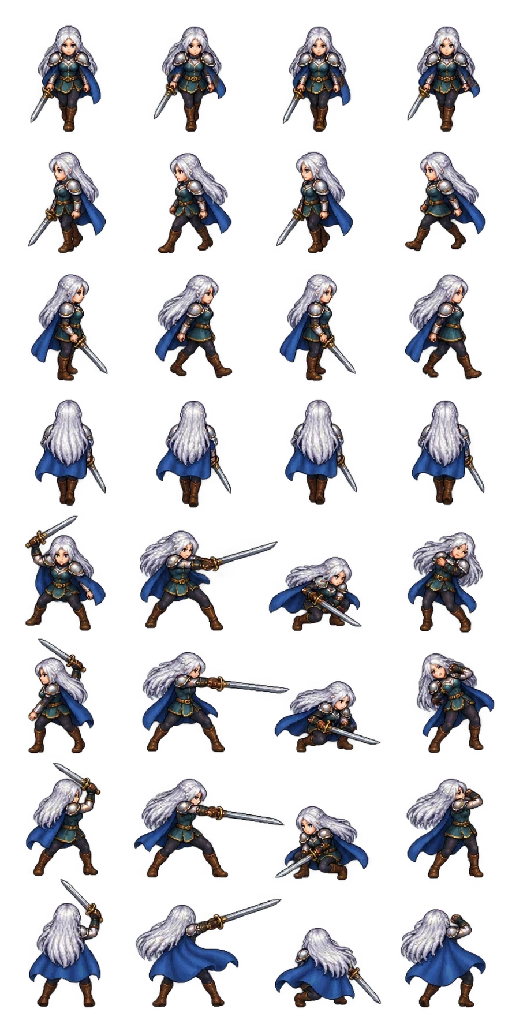
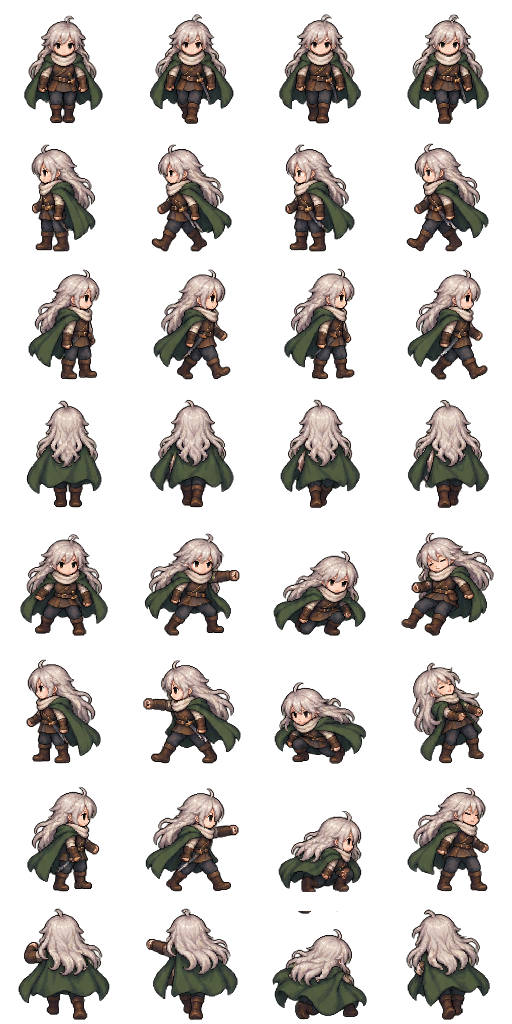
Redesign female hero as an unarmed silver-haired traveler; rename both traveler choices

diff --git a/docs/game.js b/docs/game.js
@@ -578,7 +578,7 @@ drawTown=function(){ascentDrawTown();if(state.counts.sewerRescue){sprite('silver
 // CAMPAIGN START
 // Separate long-form adventure and legacy debug saves. Rules cannot change mid-run.
 const SAVE_SLOTS={debug:'ember-below-v1',adventure:'ember-below-adventure-v1'},LAST_SLOT='ember-below-active-slot';
-const MODE_NAMES={debug:'デバッグ',adventure:'冒険'},HERO_NAMES={traveler:'茶髪の旅人',heroine:'白髪ロングの女勇者'};
+const MODE_NAMES={debug:'デバッグ',adventure:'冒険'},HERO_NAMES={traveler:'旅人(男)',heroine:'旅人(女)'};
 let newGameDraft={mode:'adventure',hero:'traveler'},lastModeAutoSave=0;
 const campaignFresh=fresh;
 fresh=function(){return {...campaignFresh(),gameMode:'debug',hero:'traveler',playSeconds:0,journeyClaimed:[]};};
@@ -611,7 +611,7 @@ function formatPlayTime(seconds){const m=Math.floor((seconds||0)/60);return Math
 const campaignEnemy=enemy;
 enemy=function(type,x,y){const count=enemies.length;campaignEnemy(type,x,y);if(enemies.length<=count)return;const e=enemies.at(-1),factor=enemyFactor();e.hp=Math.round(e.hp*factor);e.maxHp=Math.round(e.maxHp*factor);e.atk=Math.round(e.atk*factor);};
 const campaignSprite=sprite;
-sprite=function(sheet,index,cols,rows,x,y,w,h,alpha=1){if(state?.hero==='heroine'&&['hero','combat'].includes(sheet)){let i=index+(sheet==='combat'?16:0);if(sheet==='combat'&&index===5){ctx.save();ctx.translate(x*2,0);ctx.scale(-1,1);campaignSprite('heroine',25,4,8,x,y,w,h,alpha);ctx.restore();return;}return campaignSprite('heroine',i,4,8,x,y,w,h,alpha);}return campaignSprite(sheet,index,cols,rows,x,y,w,h,alpha);};
+sprite=function(sheet,index,cols,rows,x,y,w,h,alpha=1){if(state?.hero==='heroine'&&['hero','combat'].includes(sheet)){const i=index+(sheet==='combat'?16:0);return campaignSprite('heroine',i,4,8,x,y,w,h,alpha);}return campaignSprite(sheet,index,cols,rows,x,y,w,h,alpha);};
 const JOURNEY_GOALS=[
  {id:'kills5',name:'最初の一歩',count:5,potions:2,tickets:0},{id:'kills20',name:'街の外に慣れる',count:20,potions:3,tickets:3},{id:'kills50',name:'武器を探す旅',count:50,potions:4,tickets:5},{id:'kills100',name:'百戦の旅人',count:100,potions:4,tickets:8},{id:'kills200',name:'迷宮の常連',count:200,potions:5,tickets:10},{id:'kills400',name:'熟練の探索者',count:400,potions:8,tickets:15}
 ];
@@ -620,7 +620,7 @@ function journeyHTML(){return '<p class="lead">'+MODE_NAMES[state.gameMode]+' ·
 const campaignUpdate=update;
 update=function(dt){state.playSeconds=(state.playSeconds||0)+dt;campaignUpdate(dt);if(clock-lastModeAutoSave>=30){save();lastModeAutoSave=clock;}};
 const campaignHud=hud;
-hud=function(){campaignHud();if($('heroName'))$('heroName').textContent=state.hero==='heroine'?'白銀の勇者':'旅人';if($('modeBadge'))$('modeBadge').textContent=MODE_NAMES[state.gameMode]+' MODE';};
+hud=function(){campaignHud();if($('heroName'))$('heroName').textContent=HERO_NAMES[state.hero]||HERO_NAMES.traveler;if($('modeBadge'))$('modeBadge').textContent=MODE_NAMES[state.gameMode]+' MODE';};
 const campaignRender=renderModal;
 renderModal=function(){campaignRender();if(modal==='newGame'){$('modalEyebrow').textContent='A NEW JOURNEY';$('modalTitle').textContent='はじめから';$('modalBody').innerHTML=newGameHTML();}if(modal==='journey'){$('modalEyebrow').textContent='ADVENTURE RECORD';$('modalTitle').textContent='冒険手帳';$('modalBody').innerHTML=journeyHTML();}
  if(modal==='journal'){$('modalBody').innerHTML=$('modalBody').innerHTML.replace('冒険（標準）','被ダメージ補正あり').replaceAll('冒険：被ダメージ','補正あり：被ダメージ');$('modalBody').innerHTML='<div class="notice">'+MODE_NAMES[state.gameMode]+'モード / '+HERO_NAMES[state.hero]+' / '+formatPlayTime(state.playSeconds)+'<br>次のレベルまで '+(needXP()-state.xp)+' EXP</div>'+$('modalBody').innerHTML+'<hr>'+btn('冒険手帳','open:journey',!!floor);}
@@ -674,7 +674,7 @@ ACCESSORIES.push(
  {id:'springCharm',name:'若葉の護符',tier:0,hp:12,traits:['leech']}
 );
 ENEMY_NAMES.push('銀灯スライム');
-function defaultHeroName(hero=state?.hero){return hero==='heroine'?'白銀の勇者':'旅人';}
+function defaultHeroName(hero=state?.hero){return HERO_NAMES[hero]||HERO_NAMES.traveler;}
 function cleanHeroName(value){return Array.from(String(value||'').normalize('NFC').replace(/[\u0000-\u001f\u007f-\u009f\u202a-\u202e\u2066-\u2069]/g,'').trim()).slice(0,16).join('');}
 function heroDisplay(s=state){return cleanHeroName(s?.heroName)||defaultHeroName(s?.hero);}
 const discoveryFresh=fresh;
@@ -841,7 +841,7 @@ let stickId=null;const stick=$('joystick');function stickMove(e){if(e.pointerId!
 stick.onpointerdown=e=>{e.preventDefault();stickId=e.pointerId;stick.setPointerCapture(e.pointerId);stickMove(e)};stick.onpointermove=stickMove;function release(){stickId=null;joystick.x=joystick.y=0;stick.firstElementChild.style.transform='';}stick.onpointerup=release;stick.onpointercancel=release;stick.onlostpointercapture=release;
 function start(continued){if(!loaded)return;if(continued)state=readSave()||fresh();else if(readSave()){state=readSave();}else state=fresh();enterTown(true);running=true;$('titleScreen').hidden=true;save();announce('灯守りの街');toast('街の施設から準備し、迷宮か狩場へ。操作は右上の「遊び方」で確認できます。');}
 setupCampaignTitle();
-Promise.all(['hero','combat','enemies','npcs','terrain','props','items','effects','title','newenemies','weapons-extra','heroine','sewer-cast','depths-cast','tower-cast','silver-cast','weapons-a','weapons-b'].map(name=>new Promise((resolve,reject)=>{const img=new Image();img.onload=resolve;img.onerror=()=>reject(name);img.src='assets/'+name+'.webp';art[name]=img}))).then(()=>{loaded=true;$('loading').hidden=true;resize();refreshCampaignTitle();}).catch(name=>{$('loading').innerHTML='画像を読み込めませんでした。<span>ページを再読み込みしてください：'+name+'</span>';$('titleScreen').hidden=true;});
+Promise.all(['hero','combat','enemies','npcs','terrain','props','items','effects','title','newenemies','weapons-extra','heroine','sewer-cast','depths-cast','tower-cast','silver-cast','weapons-a','weapons-b'].map(name=>new Promise((resolve,reject)=>{const img=new Image();img.onload=resolve;img.onerror=()=>reject(name);img.src='assets/'+name+'.webp'+(name==='heroine'?'?v=traveler-2':'');art[name]=img}))).then(()=>{loaded=true;$('loading').hidden=true;resize();refreshCampaignTitle();}).catch(name=>{$('loading').innerHTML='画像を読み込めませんでした。<span>ページを再読み込みしてください：'+name+'</span>';$('titleScreen').hidden=true;});
 requestAnimationFrame(frame);
 // Read-only diagnostic snapshot for headless logic tests.
 window.emberSnapshot=()=>({loaded,running,modal,floor,hunt:hunt&&{...hunt},player:player&&{x:Math.round(player.x),y:Math.round(player.y),hp:Math.ceil(player.hp),mp:Math.floor(player.mp)},state:state&&JSON.parse(JSON.stringify(state)),enemies:enemies.filter(e=>e.hp>0).length,enemyDetails:enemies.filter(e=>e.hp>0).map(e=>({type:e.type,x:e.x,y:e.y,hp:e.hp})),objects:objects.map(o=>({type:o.type,x:o.x,y:o.y,opened:o.opened})),stats:state&&stats()});

diff --git a/src/campaign.js b/src/campaign.js
@@ -1,6 +1,6 @@
 // Separate long-form adventure and legacy debug saves. Rules cannot change mid-run.
 const SAVE_SLOTS={debug:'ember-below-v1',adventure:'ember-below-adventure-v1'},LAST_SLOT='ember-below-active-slot';
-const MODE_NAMES={debug:'デバッグ',adventure:'冒険'},HERO_NAMES={traveler:'茶髪の旅人',heroine:'白髪ロングの女勇者'};
+const MODE_NAMES={debug:'デバッグ',adventure:'冒険'},HERO_NAMES={traveler:'旅人(男)',heroine:'旅人(女)'};
 let newGameDraft={mode:'adventure',hero:'traveler'},lastModeAutoSave=0;
 const campaignFresh=fresh;
 fresh=function(){return {...campaignFresh(),gameMode:'debug',hero:'traveler',playSeconds:0,journeyClaimed:[]};};
@@ -33,7 +33,7 @@ function formatPlayTime(seconds){const m=Math.floor((seconds||0)/60);return Math
 const campaignEnemy=enemy;
 enemy=function(type,x,y){const count=enemies.length;campaignEnemy(type,x,y);if(enemies.length<=count)return;const e=enemies.at(-1),factor=enemyFactor();e.hp=Math.round(e.hp*factor);e.maxHp=Math.round(e.maxHp*factor);e.atk=Math.round(e.atk*factor);};
 const campaignSprite=sprite;
-sprite=function(sheet,index,cols,rows,x,y,w,h,alpha=1){if(state?.hero==='heroine'&&['hero','combat'].includes(sheet)){let i=index+(sheet==='combat'?16:0);if(sheet==='combat'&&index===5){ctx.save();ctx.translate(x*2,0);ctx.scale(-1,1);campaignSprite('heroine',25,4,8,x,y,w,h,alpha);ctx.restore();return;}return campaignSprite('heroine',i,4,8,x,y,w,h,alpha);}return campaignSprite(sheet,index,cols,rows,x,y,w,h,alpha);};
+sprite=function(sheet,index,cols,rows,x,y,w,h,alpha=1){if(state?.hero==='heroine'&&['hero','combat'].includes(sheet)){const i=index+(sheet==='combat'?16:0);return campaignSprite('heroine',i,4,8,x,y,w,h,alpha);}return campaignSprite(sheet,index,cols,rows,x,y,w,h,alpha);};
 const JOURNEY_GOALS=[
  {id:'kills5',name:'最初の一歩',count:5,potions:2,tickets:0},{id:'kills20',name:'街の外に慣れる',count:20,potions:3,tickets:3},{id:'kills50',name:'武器を探す旅',count:50,potions:4,tickets:5},{id:'kills100',name:'百戦の旅人',count:100,potions:4,tickets:8},{id:'kills200',name:'迷宮の常連',count:200,potions:5,tickets:10},{id:'kills400',name:'熟練の探索者',count:400,potions:8,tickets:15}
 ];
@@ -42,7 +42,7 @@ function journeyHTML(){return '<p class="lead">'+MODE_NAMES[state.gameMode]+' ·
 const campaignUpdate=update;
 update=function(dt){state.playSeconds=(state.playSeconds||0)+dt;campaignUpdate(dt);if(clock-lastModeAutoSave>=30){save();lastModeAutoSave=clock;}};
 const campaignHud=hud;
-hud=function(){campaignHud();if($('heroName'))$('heroName').textContent=state.hero==='heroine'?'白銀の勇者':'旅人';if($('modeBadge'))$('modeBadge').textContent=MODE_NAMES[state.gameMode]+' MODE';};
+hud=function(){campaignHud();if($('heroName'))$('heroName').textContent=HERO_NAMES[state.hero]||HERO_NAMES.traveler;if($('modeBadge'))$('modeBadge').textContent=MODE_NAMES[state.gameMode]+' MODE';};
 const campaignRender=renderModal;
 renderModal=function(){campaignRender();if(modal==='newGame'){$('modalEyebrow').textContent='A NEW JOURNEY';$('modalTitle').textContent='はじめから';$('modalBody').innerHTML=newGameHTML();}if(modal==='journey'){$('modalEyebrow').textContent='ADVENTURE RECORD';$('modalTitle').textContent='冒険手帳';$('modalBody').innerHTML=journeyHTML();}
  if(modal==='journal'){$('modalBody').innerHTML=$('modalBody').innerHTML.replace('冒険（標準）','被ダメージ補正あり').replaceAll('冒険：被ダメージ','補正あり：被ダメージ');$('modalBody').innerHTML='<div class="notice">'+MODE_NAMES[state.gameMode]+'モード / '+HERO_NAMES[state.hero]+' / '+formatPlayTime(state.playSeconds)+'<br>次のレベルまで '+(needXP()-state.xp)+' EXP</div>'+$('modalBody').innerHTML+'<hr>'+btn('冒険手帳','open:journey',!!floor);}

diff --git a/docs/index.html b/docs/index.html
@@ -1,5 +1,5 @@
 <!doctype html>
-<html lang="ja"><head><meta charset="utf-8"><meta name="viewport" content="width=device-width,initial-scale=1,maximum-scale=1,viewport-fit=cover"><meta name="theme-color" content="#101d22"><meta name="description" content="予兆を読み、魔法を選び、迷宮の底へ。ドット絵の探索アクションRPG。"><title>灯の底 — The Ember Below</title><link rel="stylesheet" href="style.css?v=10"></head>
+<html lang="ja"><head><meta charset="utf-8"><meta name="viewport" content="width=device-width,initial-scale=1,maximum-scale=1,viewport-fit=cover"><meta name="theme-color" content="#101d22"><meta name="description" content="予兆を読み、魔法を選び、迷宮の底へ。ドット絵の探索アクションRPG。"><title>灯の底 — The Ember Below</title><link rel="stylesheet" href="style.css?v=11"></head>
 <body>
 <main id="app">
  <header class="topbar"><a class="brand" href="./" aria-label="タイトルへ">灯の底<span>THE EMBER BELOW</span></a><div class="location"><span id="modeBadge">デバッグ MODE</span><span id="zoneTag">SANCTUARY</span><b id="locationName">灯守りの街</b></div><div class="top-actions"><button id="soundBtn" title="効果音">音 OFF</button><button id="helpBtn">遊び方</button><button id="menuBtn">☰ <span>旅の記録</span></button></div></header>
@@ -20,4 +20,4 @@
 </main>
 <div id="titleScreen" class="title-screen"><div class="title-shade"></div><div class="title-copy"><div class="eyebrow">A PIXEL DUNGEON ADVENTURE</div><h1>灯の底</h1><p class="english-title">THE EMBER BELOW</p><p class="title-desc">消えない灯を、探しに行こう。<br>予兆を読み、刃を交え、古い迷宮の奥へ。</p><button id="startBtn" class="primary">冒険をはじめる <span>→</span></button><button id="newGameBtn" class="primary">はじめから</button><button id="otherContinueBtn" hidden></button><p id="titleSaveInfo"></p><button id="continueBtn" hidden>旅の続きを歩く →</button><div class="title-meta">探索アクションRPG <span>◆</span> 自動セーブ対応</div></div><div class="title-bottom"><span>ASH & AMBER · FIRST EXPEDITION</span><span>音を有効にすると、灯の音が聞こえます</span></div></div>
 <div id="modalBackdrop" hidden><section id="modal" role="dialog" aria-modal="true" aria-labelledby="modalTitle"><header><div><small id="modalEyebrow">JOURNAL</small><h2 id="modalTitle"></h2></div><button id="closeModal" aria-label="閉じる">×</button></header><div id="modalBody"></div><footer>メニューを開いている間、時間は止まります。</footer></section></div>
-<script src="game.js?v=10"></script></body></html>
+<script src="game.js?v=14"></script></body></html>

diff --git a/docs/style.css b/docs/style.css
@@ -28,7 +28,7 @@
 .inventory-filters{display:flex;flex-wrap:wrap;gap:10px;margin:12px 0}.inventory-filters label{display:flex;flex-direction:column;gap:5px;color:#b4c6c4;font-size:11px;flex:1;min-width:110px}.set-active{color:#e7cf8d}
 #backupError{color:#edc28a;line-height:1.7}#skillBalance{color:#a9d5ca}#modal .loot-actions{flex-wrap:wrap;max-width:165px}
 @media(max-width:650px){#modal .loot-actions{max-width:100px;min-width:80px}#modal textarea{font-size:11px}#modal select{font-size:12px}}
-.mode-card.chosen,.hero-card.chosen{border-color:#dfbd7b!important;background:#2a4144!important;box-shadow:inset 0 0 0 1px #dfbd7b}.mode-card{text-align:left}.mode-card p{font-size:12px;line-height:1.8}.hero-card{display:flex;align-items:center;flex-direction:column;gap:8px}.hero-card b{font-size:12px}.hero-preview{display:block;width:104px;height:104px;image-rendering:pixelated;background-repeat:no-repeat}.hero-preview.traveler{background-image:url('assets/hero.webp');background-size:400% 400%;background-position:0 0}.hero-preview.heroine{background-image:url('assets/heroine.webp');background-size:400% 800%;background-position:0 0}
+.mode-card.chosen,.hero-card.chosen{border-color:#dfbd7b!important;background:#2a4144!important;box-shadow:inset 0 0 0 1px #dfbd7b}.mode-card{text-align:left}.mode-card p{font-size:12px;line-height:1.8}.hero-card{display:flex;align-items:center;flex-direction:column;gap:8px}.hero-card b{font-size:12px}.hero-preview{display:block;width:104px;height:104px;image-rendering:pixelated;background-repeat:no-repeat}.hero-preview.traveler{background-image:url('assets/hero.webp');background-size:400% 400%;background-position:0 0}.hero-preview.heroine{background-image:url('assets/heroine.webp?v=traveler-2');background-size:400% 800%;background-position:0 0}
 .title-copy>button{display:block;width:280px;max-width:100%;margin:10px 0}.title-copy #titleSaveInfo{font-size:10px;line-height:1.7;color:#c7d3c8;max-width:320px;margin:12px 0}#modeBadge{color:#9ed3c7;letter-spacing:2px;font-size:8px}
 @media(max-height:650px){.title-copy{top:45%;transform:translateY(-45%)}.title-copy h1{font-size:54px}.title-copy .title-desc{margin:14px 0}.title-copy .title-meta{margin-top:12px}.title-copy>button{padding:10px 15px}.title-copy #titleSaveInfo{margin:6px 0}}
 .name-label{display:flex;flex-direction:column;gap:9px;color:#dddecf;margin:20px 0}.name-label input{width:100%;padding:12px;background:#10242b;color:#f1ead9;border:1px solid #8ba7a7;border-radius:5px;font:inherit;min-height:44px}#expCount{color:#c7d8fb;border-color:#647a9c}.mode-card{min-height:90px}

diff --git a/src/discovery.js b/src/discovery.js
@@ -32,7 +32,7 @@ ACCESSORIES.push(
  {id:'springCharm',name:'若葉の護符',tier:0,hp:12,traits:['leech']}
 );
 ENEMY_NAMES.push('銀灯スライム');
-function defaultHeroName(hero=state?.hero){return hero==='heroine'?'白銀の勇者':'旅人';}
+function defaultHeroName(hero=state?.hero){return HERO_NAMES[hero]||HERO_NAMES.traveler;}
 function cleanHeroName(value){return Array.from(String(value||'').normalize('NFC').replace(/[\u0000-\u001f\u007f-\u009f\u202a-\u202e\u2066-\u2069]/g,'').trim()).slice(0,16).join('');}
 function heroDisplay(s=state){return cleanHeroName(s?.heroName)||defaultHeroName(s?.hero);}
 const discoveryFresh=fresh;

diff --git a/ART_ASSETS.md b/ART_ASSETS.md
@@ -1,13 +1,14 @@
-# 白髪ロングの女勇者
+# 旅人(女) — 白髪ロングの旅装
 
-- 保存先：`docs/assets/heroine.webp`
-- 形式：透過WebP、512×1024、4列×8行。上4行が移動、下4行が攻撃・回避・被弾。
-- 生成方式：imagegenスキルの組み込み画像生成。生成後にゲーム用の寸法・WebPへ変換。元の茶髪の旅人は保持。
-- 外見による能力差なし。
+- 保存先：`docs/assets/heroine.webp`（512×1024、透過WebP、4列×8行）。
+- 男性と同じ素朴な旅人の雰囲気。白髪ロング、緑の布マント、生成りのスカーフ、茶の旅装、革のブーツ。鎧・剣・鞘は描かない。
+- 組み込み image_gen / imagegen スキルで生成。`hero.webp` を絵柄・頭身・衣装の参考に使用。透過セルの余白と縮尺だけをPillowで整え、足元を124pxに統一。
+- 1〜4行は正面・左・右・背面の歩行4コマ。5〜8行は同順の素手の予備動作・攻撃・回避・被弾。装備武器はゲーム側の既存描画で表示。
+- 選択表示と未命名時の名称は「旅人(男)」「旅人(女)」。保存内のID `traveler` / `heroine` は保持し、入力済みの名前も保持。
 
-## 生成プロンプト
+## 使用したプロンプト（要約）
 
-Asset type: production pixel art RPG character sprite atlas, transparent background. Create ONE precisely aligned sprite sheet with FOUR EQUAL COLUMNS and EIGHT EQUAL ROWS, 32 sprites total, portrait aspect ratio 1:2, ideally 1024x2048. Every invisible cell is exactly the same size, character standing feet at the same baseline, character entire body and sword entirely inside each cell, generous transparent padding between cells. Subject in EVERY cell: the SAME adult female heroic adventurer with very long white/silver hair reaching waist, small silver shoulder armor over a dark teal tunic, blue capelet, dark leggings and brown boots, steel sword. Readable face and silhouette. Elegant brave fantasy heroine, not sexualized. Match polished 32-bit era top-down dungeon RPG sprites, crisp nearest-neighbor pixel blocks, limited palette, 3/4 overhead view, no antialiased painting. Rows 1-4: walking cycle four frames each, directions in row order SOUTH facing viewer, WEST facing left, EAST facing right, NORTH back facing away. Columns idle/left-step/idle/right-step. Rows 5-8: same four directions in same order SOUTH/WEST/EAST/NORTH, columns sword windup / sword strike / dodge crouch / hurt recoil. Keep body sizes identical throughout all 32 cells, white hair consistent from all directions; back-facing sprite shows the long white hair. No labels, no text, no numbers, no frame borders, no grid lines, no scenery, no glow, no shadows outside sprite. True transparent background.
+Production pixel sprite atlas, transparent, 4 columns by 8 rows. Adult female traveler matching hero.webp in chibi proportions, pixel density, rustic mood and outfit. Long loose white/silver hair, muted forest-green cloth cloak, cream scarf, brown cloth tunic, leather belt and pouch, dark trousers, practical brown boots and wrist cuffs. No armor, swords, weapons or scabbards; both hands empty in all 32 cells. Rows 1–4 walking south/west/east/north, idle/left step/idle/right step. Rows 5–8 same directions with empty-handed windup/attack/dodge/hurt. Stable body size, complete bodies inside equal cells, generous transparent gutters, no text/grid/scenery.
 
 # 専用キャラクター画像の完成版
 

diff --git a/README.md b/README.md
@@ -40,7 +40,7 @@ GitHub Pages: https://ginghum.github.io/soko/
 | 敵のHP・攻撃力 | 従来通り | 3倍 |
 | 売却価格・敵のEXPやお金・ガチャ券 | 従来通り | 据え置き |
 
-茶髪の旅人と、白髪ロングの女勇者を選択でき、能力は同じ。新主人公は移動・攻撃・回避・被弾の透過スプライトを収録。素材と生成プロンプトは `ART_ASSETS.md`。
+旅人(男)と、白髪ロングの旅人(女)を選択でき、能力は同じ。新主人公は移動・攻撃・回避・被弾の透過スプライトを収録。素材と生成プロンプトは `ART_ASSETS.md`。
 
 デバッグは従来の `ember-below-v1`、冒険は `ember-below-adventure-v1` に別保存する。「はじめから」は選んだ枠だけを置き換え、置き換え前の記録を1件保存する。バックアップを読み込む場合も、その記録のモードへ保存する。
 
